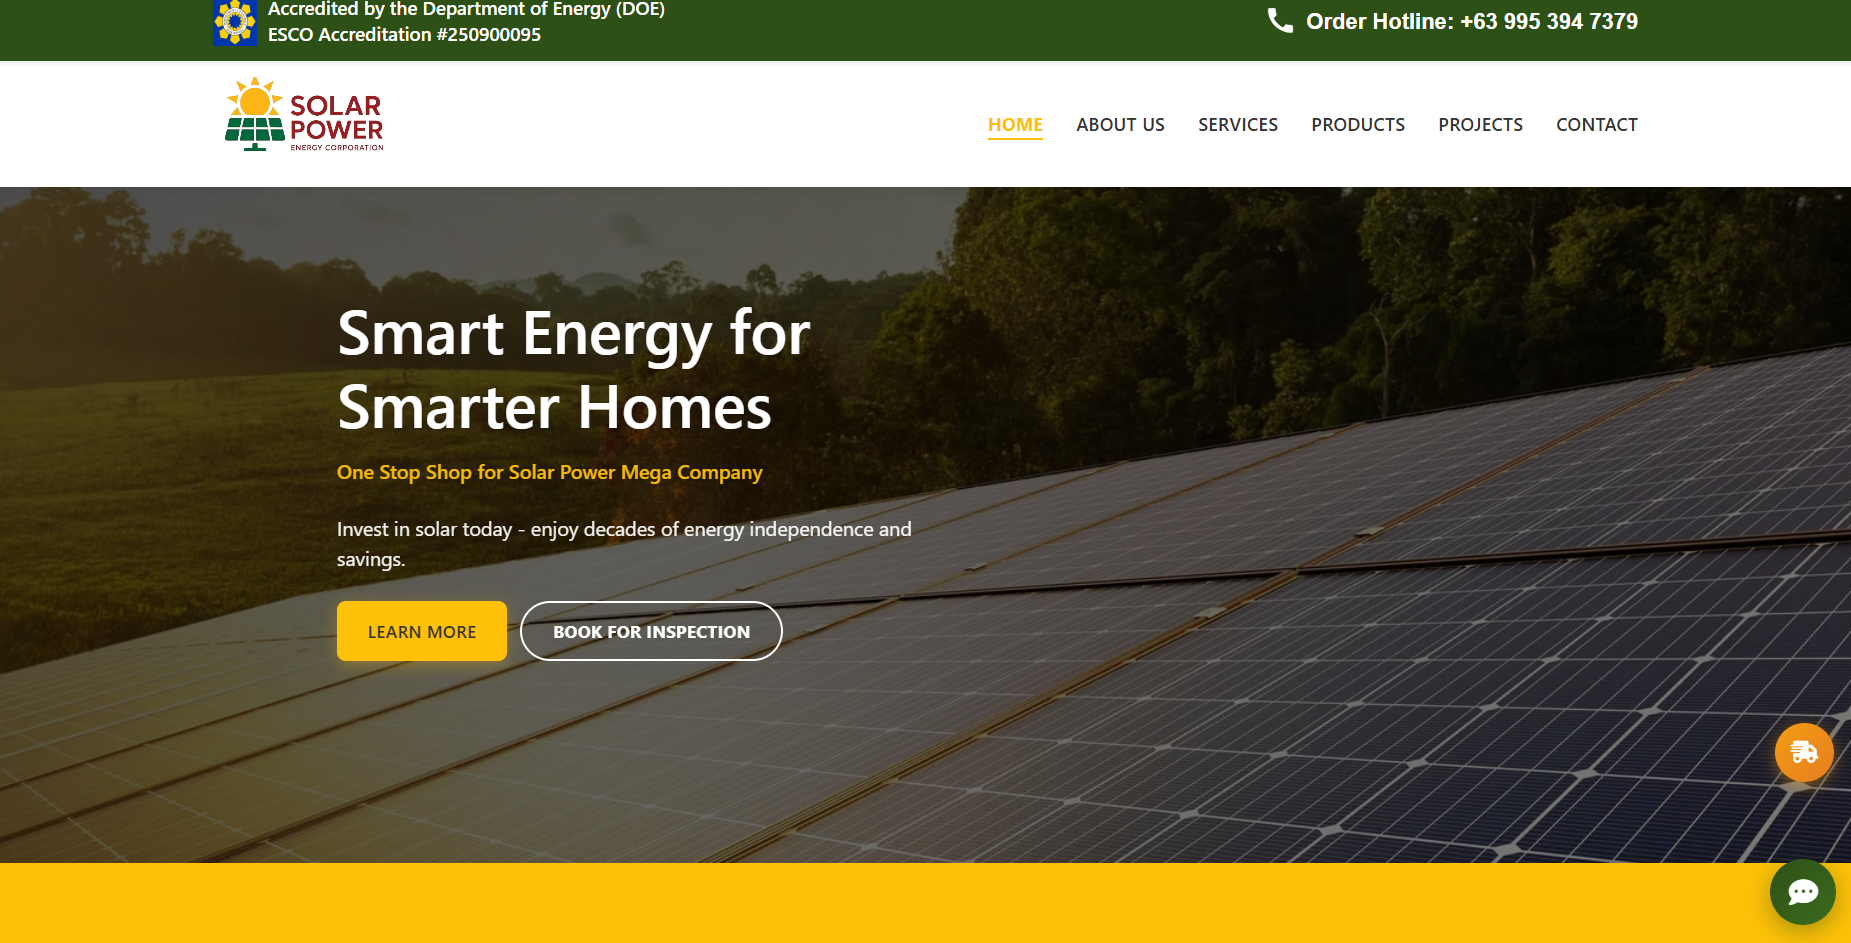
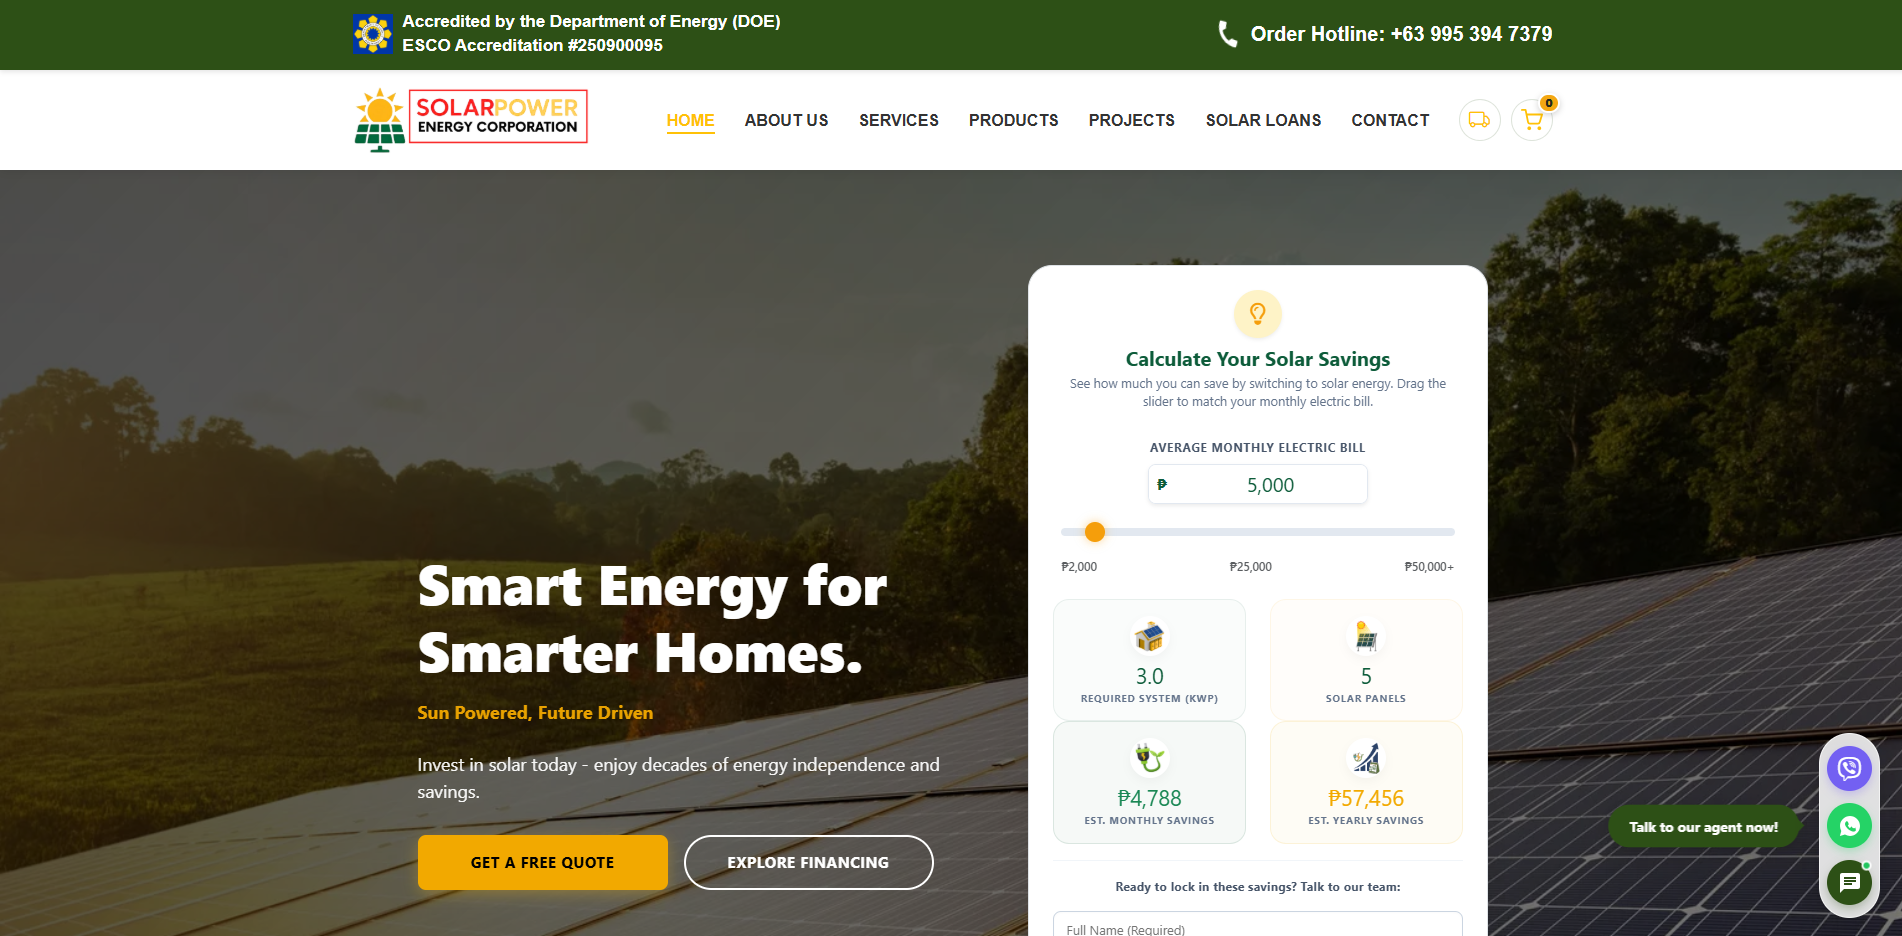
feat: initialize React portfolio application and add project assets

diff --git a/src/App.jsx b/src/App.jsx
@@ -1,6 +1,7 @@
 import { useEffect, useState } from 'react'
 import { motion } from 'framer-motion'
 import portraitImage from '../pictures/mypic.png'
+import gradPicImage from '../pictures/grad-picwbg.png'
 import solarPowerImage from './optimized/solarpower.jpg'
 import solarKingImage from './optimized/solarking.webp'
 import icsmImage from './optimized/icsm.jpg'
@@ -8,6 +9,11 @@ import taskQueyaImage from './optimized/taskqueya.jpg'
 import worldcityImage from './optimized/worldcity.jpg'
 import mobilityImage from './optimized/mobility.jpg'
 import architectsImage from './optimized/architects.jpg'
+import worldcityDubaiImage from '../pictures/worldcityDubai.png'
+import wdcImage from '../pictures/wdc.png'
+import wcggroupImage from '../pictures/wcggroup.png'
+import wcgconsultingImage from '../pictures/wcgconsulting.png'
+import creditsureImage from '../pictures/creditsure.png'
 import birthdayArtwork from '../pictures/Birthday_celebrant_client.jpg'
 import businessArtwork from '../pictures/client3business.jpg'
 import socialArtwork from './optimized/social-artwork.jpg'
@@ -41,6 +47,16 @@ const ease = [0.22, 1, 0.36, 1]
 const reveal = {
   hidden: { opacity: 0, y: 42 },
   visible: { opacity: 1, y: 0, transition: { duration: 0.75, ease } },
+}
+
+const baseImgVariants = {
+  default: { opacity: 1, scale: 1 },
+  hover: { opacity: 0, scale: 0.95 }
+}
+
+const hoverImgVariants = {
+  default: { opacity: 0, scale: 1.05 },
+  hover: { opacity: 1, scale: 1 }
 }
 
 const stagger = {
@@ -154,6 +170,46 @@ const projects = [
     repo: 'https://github.com/mRPy30/worldcity-architects',
     tags: ['TypeScript', 'CMS', 'Web design'],
   },
+  {
+    title: 'Worldcity Real Estate Dubai',
+    category: 'Property portal · Lead generation',
+    description: 'A premium real estate platform for discovering luxury properties and registering interest in Dubai, UAE.',
+    image: worldcityDubaiImage,
+    live: 'https://www.worldcityrealestate.com/',
+    tags: ['SEO', 'Responsive UI', 'Web Design'],
+  },
+  {
+    title: 'Worldcity Group',
+    category: 'Corporate website · Brand identity',
+    description: 'The central corporate website for Worldcity Group, representing its global services, brand identity, and corporate portfolio.',
+    image: wdcImage,
+    live: 'https://worldcitygroup.com/',
+    tags: ['React', 'SEO', 'Responsive UI'],
+  },
+  {
+    title: 'Worldcity Philippines',
+    category: 'Corporate website · Group directory',
+    description: 'Official corporate directory and business portfolio for Worldcity Group\'s Philippine operations.',
+    image: wcggroupImage,
+    live: 'https://worldcity.ph/',
+    tags: ['React', 'Web Design', 'SEO'],
+  },
+  {
+    title: 'WCG Consulting',
+    category: 'Consulting portal · Advisory',
+    description: 'A professional consulting and advisory landing page for strategic corporate registration and business services.',
+    image: wcgconsultingImage,
+    tags: ['UI/UX Design', 'Prototype', 'Web Design'],
+    previewSoon: true,
+  },
+  {
+    title: 'CreditSure',
+    category: 'Financial services · Loan system',
+    description: 'A secure financial assessment and background verification platform for modern credit services.',
+    image: creditsureImage,
+    tags: ['UI/UX Design', 'Dashboard', 'React'],
+    previewSoon: true,
+  },
 ]
 
 const graphics = [
@@ -187,15 +243,27 @@ function SectionIntro({ eyebrow, title, copy }) {
 }
 
 function ProjectCard({ project, index }) {
+  const isPreview = project.previewSoon
   return (
     <motion.article className={`project-card ${project.featured ? 'featured' : ''}`} variants={reveal}>
-      <a href={project.live} target="_blank" rel="noreferrer" className="project-visual" aria-label={`Open ${project.title} live website`}>
-        <img src={project.image} alt={`${project.title} interface preview`} loading="lazy" />
-        <span className="project-number">0{index + 1}</span>
-        <span className="view-project">View live <ArrowUpRight size={16} /></span>
-      </a>
+      {isPreview ? (
+        <div className="project-visual preview-only" aria-label={`${project.title} interface preview`}>
+          <img src={project.image} alt={`${project.title} interface preview`} loading="lazy" />
+          <span className="project-number">{(index + 1) < 10 ? `0${index + 1}` : index + 1}</span>
+          <span className="view-project preview-badge">Preview soon</span>
+        </div>
+      ) : (
+        <a href={project.live} target="_blank" rel="noreferrer" className="project-visual" aria-label={`Open ${project.title} live website`}>
+          <img src={project.image} alt={`${project.title} interface preview`} loading="lazy" />
+          <span className="project-number">{(index + 1) < 10 ? `0${index + 1}` : index + 1}</span>
+          <span className="view-project">View live <ArrowUpRight size={16} /></span>
+        </a>
+      )}
       <div className="project-info">
-        <p>{project.category}</p>
+        <p>
+          {project.category}
+          {isPreview && <span className="badge-preview">Preview soon</span>}
+        </p>
         <h3>{project.title}</h3>
         <span className="project-description">{project.description}</span>
         <div className="project-footer">
@@ -267,13 +335,43 @@ function App() {
             </motion.div>
           </div>
 
-          <motion.div className="portrait" initial={{ opacity: 0, scale: 0.9, y: 32 }} animate={{ opacity: 1, scale: 1, y: 0 }} transition={{ delay: 0.4, duration: 0.95, ease }}>
-            <img src={portraitImage} alt="Verzel, full-stack developer and UI/UX designer" width="784" height="1047" fetchPriority="high" />
+          <motion.div 
+            className="portrait" 
+            initial={{ opacity: 0, scale: 0.9, y: 32 }} 
+            animate={{ opacity: 1, scale: 1, y: 0 }} 
+            transition={{ delay: 0.4, duration: 0.95, ease }}
+            whileHover="hover"
+          >
+            <div className="portrait-inner">
+              <motion.img 
+                variants={baseImgVariants}
+                initial="default"
+                animate="default"
+                transition={{ duration: 0.5, ease }}
+                src={portraitImage} 
+                alt="Verzel, full-stack developer and UI/UX designer" 
+                width="784" 
+                height="1047" 
+                fetchPriority="high" 
+              />
+              <motion.img 
+                variants={hoverImgVariants}
+                initial="default"
+                animate="default"
+                transition={{ duration: 0.5, ease }}
+                src={gradPicImage} 
+                alt="Verzel in graduation toga" 
+                width="784" 
+                height="1047" 
+                fetchPriority="high"
+                className="toga-img"
+              />
+            </div>
           </motion.div>
 
           <div className="hero-right">
             <motion.div className="hero-stats" initial={{ opacity: 0, y: 15 }} animate={{ opacity: 1, y: 0 }} transition={{ delay: 0.34 }}>
-              <div><strong>11+</strong><span>Projects<br />delivered</span></div>
+              <div><strong>16+</strong><span>Projects<br />delivered</span></div>
               <div><strong>2024</strong><span>Est.</span></div>
             </motion.div>
             <motion.h2 initial={{ opacity: 0, x: 75 }} animate={{ opacity: 1, x: 0 }} transition={{ delay: 0.22, duration: 0.9, ease }}>

diff --git a/src/index.css b/src/index.css
@@ -68,7 +68,9 @@ button, a { -webkit-tap-highlight-color: transparent; }
 .hero-badge span { color: #c7bec1; font-size: 6px; font-weight: 700; line-height: 1.3; letter-spacing: .09em; text-transform: uppercase; white-space: nowrap; }
 .hero-badge strong { margin-top: 2px; color: #fff; font: 800 7px/1.25 "Inter", sans-serif; letter-spacing: .04em; text-transform: uppercase; }
 .portrait { position: relative; z-index: 2; align-self: stretch; display: flex; justify-content: center; align-items: flex-end; min-height: 560px; }
-.portrait::after { content: ""; position: absolute; z-index: -1; bottom: 6%; left: 50%; width: 78%; height: 18%; transform: translateX(-50%); border-radius: 50%; background: rgba(160,10,51,.3); filter: blur(45px); }
+.portrait::after { content: ""; position: absolute; z-index: -1; bottom: 6%; left: 50%; width: 78%; height: 18%; transform: translateX(-50%); border-radius: 50%; background: rgba(160,10,51,.3); filter: blur(45px); pointer-events: none; }
+.portrait-inner { display: grid; grid-template-columns: 1fr; grid-template-rows: 1fr; place-items: end center; width: 100%; height: 100%; }
+.portrait-inner > * { grid-area: 1 / 1 / 2 / 2; }
 .portrait img { width: min(135%, 550px); max-width: none; height: auto; max-height: 74vh; object-fit: contain; object-position: bottom center; filter: drop-shadow(0 30px 34px rgba(0,0,0,.36)); }
 .hero-stats { position: absolute; top: 40%; right: 0; display: flex; flex-direction: column; align-items: flex-end; gap: 18px; margin: 0; }
 .hero-stats > div { display: flex; align-items: center; gap: 10px; }
@@ -258,3 +260,37 @@ button, a { -webkit-tap-highlight-color: transparent; }
 @media (prefers-reduced-motion: reduce) {
   *, *::before, *::after { scroll-behavior: auto !important; animation-duration: .01ms !important; animation-iteration-count: 1 !important; transition-duration: .01ms !important; }
 }
+
+/* Preview badges and states */
+.badge-preview {
+  display: inline-block;
+  margin-left: 8px;
+  padding: 3px 8px;
+  border-radius: 6px;
+  background: rgba(225, 29, 72, 0.1);
+  border: 1px solid rgba(225, 29, 72, 0.2);
+  color: #e11d48;
+  font-size: 8px;
+  font-weight: 800;
+  letter-spacing: .05em;
+  text-transform: uppercase;
+  vertical-align: middle;
+}
+.dark .badge-preview {
+  background: rgba(225, 29, 72, 0.15);
+  border-color: rgba(225, 29, 72, 0.3);
+  color: #fb7185;
+}
+
+.project-visual.preview-only {
+  cursor: default;
+}
+.project-visual.preview-only::after {
+  background: linear-gradient(to top, rgba(9, 6, 7, 0.2), transparent 45%);
+}
+.project-visual.preview-only .view-project.preview-badge {
+  background: #5c5356;
+  color: #e5e0e2;
+  border: 1px solid rgba(255, 255, 255, 0.1);
+}
+